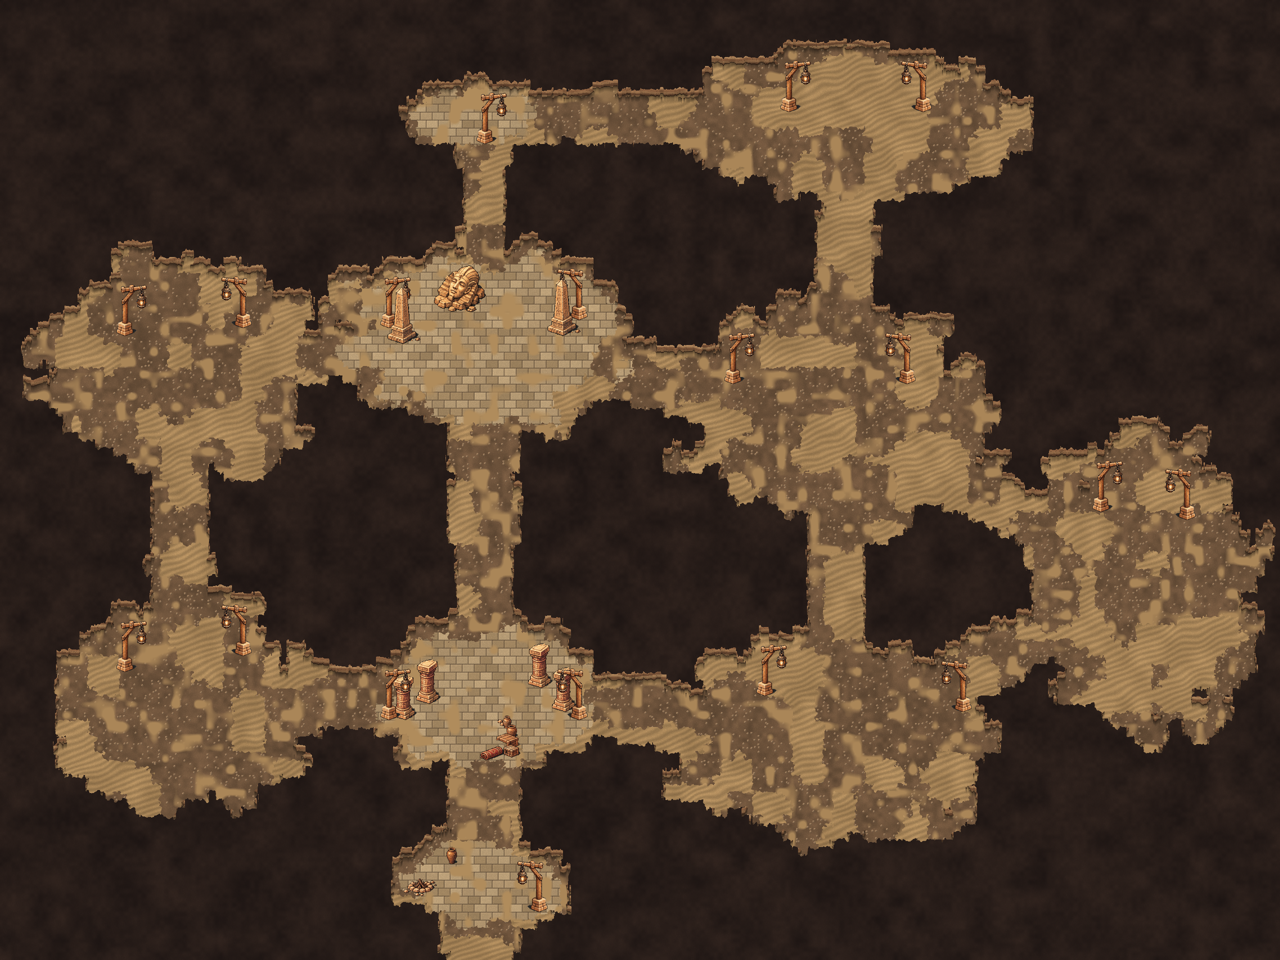
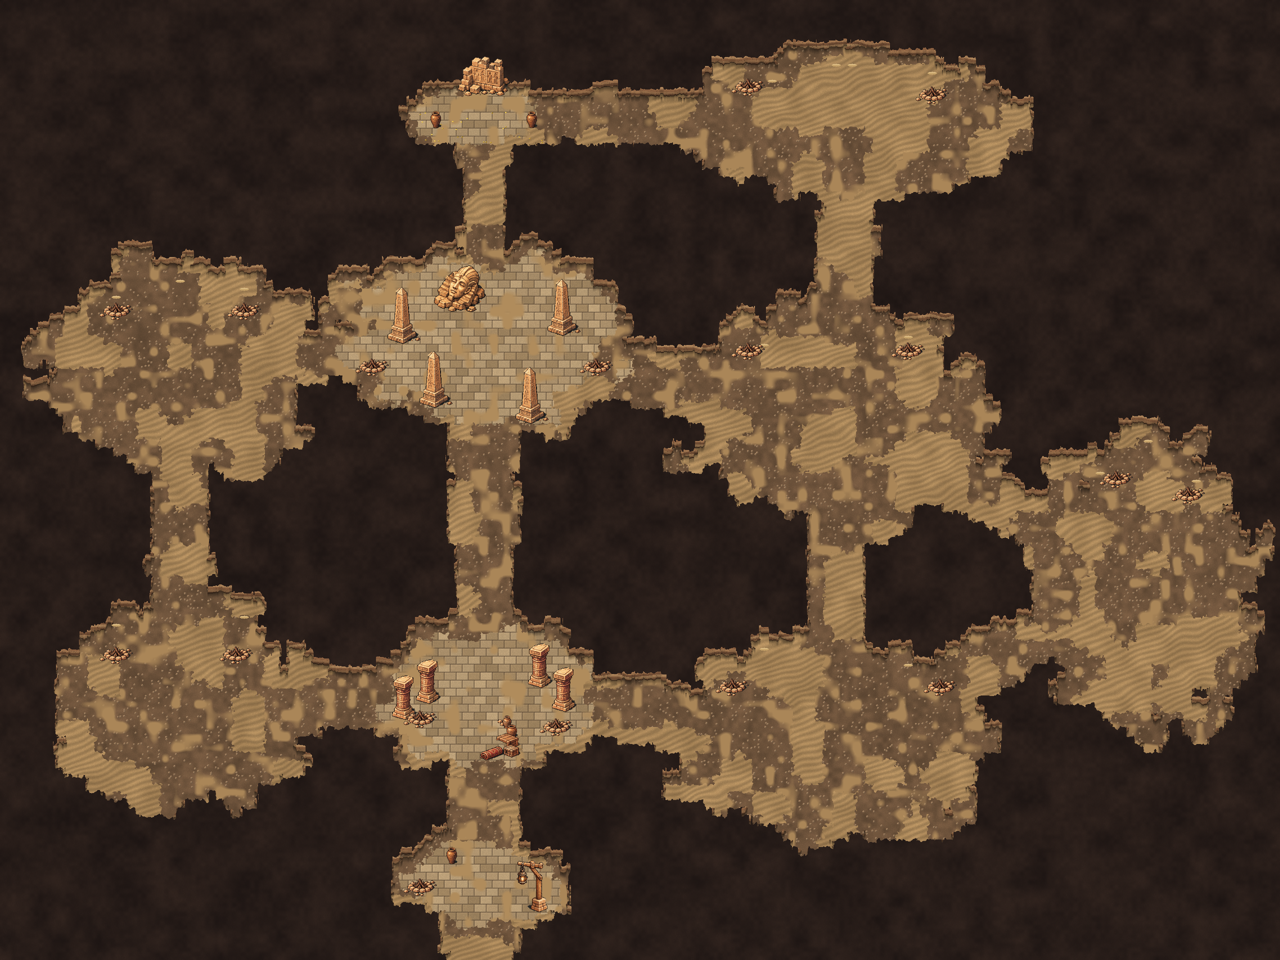
Templo: areia caindo, braseiros, guardiões, tesouro na Câmara Selada e raio de luz no ídolo (em revisão)
Claude-Session: https://claude.ai/code/session_01DxMENvJSpBJLKVoAtLL83c

diff --git a/mapas/Mapa_TemploSoterrado/templo_soterrado.js b/mapas/Mapa_TemploSoterrado/templo_soterrado.js
@@ -1,6 +1,6 @@
 /* ---------- Templo Soterrado (mapa 'ts') — caverna (lugar de dentro) do Acampamento dos Nômades (nd) ----------
    Um templo antigo engolido pelas dunas. O eixo do templo (lajes): Salão da Entrada, Galeria das Colunas, Salão do Ídolo e a
-   Câmara Selada. Dos dois lados, SEIS salões desmoronados e criptas cheias de areia, largos para caçar, ligados em anel.
+   Câmara Selada (o tesouro). Dos dois lados, SEIS salões desmoronados e criptas cheias de areia, largos para caçar, ligados em anel.
    Entrada e saída: a porta da entrada de caverna com o portal esculpido (cave_temple), no morro de areia da Planície Escaldante, no Acampamento leva para cá (chega em (60, 115)); a saída é a borda sul (colunas 56-63),
    que volta para a frente da porta. Lugar de dentro: tamanho livre (160 × 120).
    Chão: pintor por pixel de caverna (o mesmo nas duas cavernas do Acampamento), espelhado em ts_floor.gdshader.
@@ -108,18 +108,28 @@ function buriedTemple(){
  const HALL=k=>HALLS[k];
  const inHall=(k,f=1)=>(x,y)=>{const h=HALLS[k];return Math.hypot((x-h[0])/h[2],(y-h[1])/h[3])<f};
  const rim=k=>(x,y)=>{const h=HALLS[k],e=Math.hypot((x-h[0])/h[2],(y-h[1])/h[3]);return e>.62&&e<1.1};
- /* Salao da Entrada: acampamento encostado na parede */
+ const og=oc.getContext('2d');
+ /* Salao da Entrada: acampamento dos exploradores encostado na parede (os postes de lanterna são deles) */
  fire(52,109);aNear('goods',50,106,{});aNear('jar',53,105,{bw:0});torch(69,107,{flip:true});
- /* Galeria: colunas encostadas nas paredes, meio largo e livre */
+ /* Galeria: colunas encostadas nas paredes, meio largo e livre; braseiros de pedra nos cantos */
  for(const x of[46,74])for(const y of[81,91])aNear('column',x,y,{bw:0,fit:0,road:0,res:0});
- torch(45,86);torch(75,86,{flip:true});
- /* Salao do Idolo: estatua no fundo, obeliscos so na parede de tras */
+ fire(47,95);fire(73,95);
+ /* guardiões (provisório: obeliscos) dos dois lados da passagem para o Salão do Ídolo */
+ aNear('obelisk',53,53,{bw:1,road:0});aNear('obelisk',67,53,{bw:1,road:0});
+ /* Salao do Idolo: estatua no fundo com um raio de luz caindo do teto sobre ela; obeliscos na parede de tras; braseiros */
  aNear('statue_head',60,32,{fit:2,br:2,road:0});aNear('obelisk',44,36,{bw:1,road:0});aNear('obelisk',76,36,{bw:1,road:0});
- torch(48,40);torch(72,40,{flip:true});torch(60,12);
- /* 6 saloes de caca (5 a 10): vazios no meio; uma coluna quebrada colada na parede e duas tochas no alto de cada um */
+ fire(46,46);fire(74,46);fx.beam=[[60*T+8,35*T]];dark.push([60*T+8,33*T,110,.7]);
+ /* Camara Selada: o tesouro no fim do eixo — porta selada (provisório: muro com relevo) na parede do fundo, jarros e
+    mercadorias dos lados, moedas de ouro espalhadas no chão (no ov, sem colisão) */
+ {let y=14;while(y>2&&F[(y-1)*W+60])y--;aPut('ruin_wall',60,y+1,{bw:3,res:1});}aNear('jar',54,15,{bw:0,road:0});aNear('jar',66,15,{bw:0,road:0});aNear('goods',56,16,{road:0});
+ for(let k=0;k<26;k++){const x=(52+hq(k,191)*16)*T,y=(14+hq(k,192)*4)*T;og.fillStyle=hq(k,193)<.5?'#e8c040':'#b08820';og.fillRect(x|0,y|0,3,2);og.fillStyle='#fff0a0';og.fillRect(x|0,y|0,1,1)}
+ dark.push([60*T+8,14*T,80,.6]);
+ /* 6 saloes de caca (5 a 10): vazios no meio; braseiros de pedra no alto; areia escorrendo de fendas do teto com montinho */
  for(let k=4;k<=9;k++){const h=HALLS[k];
-  aScat(['column_broken'],1,600+k*10,(x,y)=>{const e=Math.hypot((x-h[0])/h[2],(y-h[1])/h[3]);return e>.85&&e<1.05},{bw:0,fit:1,road:0});
-  torch(Math.round(h[0]-h[2]*.55),Math.round(h[1]-h[3]*.6));torch(Math.round(h[0]+h[2]*.55),Math.round(h[1]-h[3]*.6),{flip:true})}
+  fire(Math.round(h[0]-h[2]*.55),Math.round(h[1]-h[3]*.6));fire(Math.round(h[0]+h[2]*.55),Math.round(h[1]-h[3]*.6));
+  for(let q=0;q<3;q++){const sx=Math.round(h[0]+(q-1)*h[2]*.45);let y=Math.round(h[1]);while(y>0&&F[(y-1)*W+sx])y--;
+   if(y<=0)continue;fx.sand.push([sx*T+8,y*T-4,hq(k,q)*6.28]);
+   const px=sx*T+8,py=y*T+34;for(let j=-3;j<=3;j++)for(let i=-9;i<=9;i++){if((i*i)/81+(j*j)/9>1)continue;og.fillStyle=j<0?'#dcbc84':'#c8a46a';og.fillRect(px+i,py+j,1,1)}}}
  /* poeira no ar e areia escorrendo do teto */
  for(let k=0;k<90;k++){const x=4+hq(k,61)*(W-8)|0,y=4+hq(k,62)*(H-8)|0;if(F[y*W+x])fx.dust.push([x*T+8,y*T+8,hq(k,63)*6.28])}
  for(let k=0;k<200&&fx.sand.length<16;k++){const x=4+hq(k,64)*(W-8)|0,y=4+hq(k,65)*(H-8)|0;if(F[y*W+x]&&!F[(y-1)*W+x])fx.sand.push([x*T+8,y*T-4,hq(k,66)*6.28])}

diff --git a/visualizador_ferramentas/gera_cavernas.py b/visualizador_ferramentas/gera_cavernas.py
@@ -102,25 +102,35 @@ function %(FN)s(){
 TEMPLO = dict(
  ID='ts', W=160, H=120, CH=115, FN='buriedTemple', NOME='Templo Soterrado', PORTA='da entrada de caverna com o portal esculpido (cave_temple), no morro de areia da Planície Escaldante,',
  DESC='''   Um templo antigo engolido pelas dunas. O eixo do templo (lajes): Salão da Entrada, Galeria das Colunas, Salão do Ídolo e a
-   Câmara Selada. Dos dois lados, SEIS salões desmoronados e criptas cheias de areia, largos para caçar, ligados em anel.''',
+   Câmara Selada (o tesouro). Dos dois lados, SEIS salões desmoronados e criptas cheias de areia, largos para caçar, ligados em anel.''',
  ZN="['Templo Soterrado','Salão da Entrada','Galeria das Colunas','Salão do Ídolo','Câmara Selada','Salão Desmoronado Oeste','Cripta Oeste','Salão Desmoronado Leste','Cripta Leste','Salão das Areias','Galeria Norte']",
  HALLS="[[60,110,11,6,1,1],[60,86,16,9,2,1],[60,42,20,12,3,1],[60,14,9,4,4,1],[22,88,17,13,5,0],[22,46,17,14,6,0],[104,92,21,13,7,0],[104,52,20,14,8,0],[143,72,14,20,9,0],[106,15,22,9,10,0]]",
  TUN="[[60,116,60,86,4],[60,86,60,42,4],[60,42,60,14,3],[60,86,22,88,3.6],[22,88,22,46,3.6],[22,46,60,42,3.4],[60,86,104,92,3.6],[104,92,104,52,3.6],[104,52,60,42,3.4],[104,92,143,72,3.6],[104,52,143,72,3.4],[104,52,106,15,3.4],[106,15,60,14,3]]",
  SD=90, R0='[150,104,70]', R1='[170,124,84]', R2='[128,88,60]', R3='[184,140,96]',
  SLR='', SLG='', SLB='',
  FR=92, FG=70, FB=50, VX='122*16+8', VY='89*16',
- OBJ=''' /* Salao da Entrada: acampamento encostado na parede */
+ OBJ=''' const og=oc.getContext('2d');
+ /* Salao da Entrada: acampamento dos exploradores encostado na parede (os postes de lanterna são deles) */
  fire(52,109);aNear('goods',50,106,{});aNear('jar',53,105,{bw:0});torch(69,107,{flip:true});
- /* Galeria: colunas encostadas nas paredes, meio largo e livre */
+ /* Galeria: colunas encostadas nas paredes, meio largo e livre; braseiros de pedra nos cantos */
  for(const x of[46,74])for(const y of[81,91])aNear('column',x,y,{bw:0,fit:0,road:0,res:0});
- torch(45,86);torch(75,86,{flip:true});
- /* Salao do Idolo: estatua no fundo, obeliscos so na parede de tras */
+ fire(47,95);fire(73,95);
+ /* guardiões (provisório: obeliscos) dos dois lados da passagem para o Salão do Ídolo */
+ aNear('obelisk',53,53,{bw:1,road:0});aNear('obelisk',67,53,{bw:1,road:0});
+ /* Salao do Idolo: estatua no fundo com um raio de luz caindo do teto sobre ela; obeliscos na parede de tras; braseiros */
  aNear('statue_head',60,32,{fit:2,br:2,road:0});aNear('obelisk',44,36,{bw:1,road:0});aNear('obelisk',76,36,{bw:1,road:0});
- torch(48,40);torch(72,40,{flip:true});torch(60,12);
- /* 6 saloes de caca (5 a 10): vazios no meio; uma coluna quebrada colada na parede e duas tochas no alto de cada um */
+ fire(46,46);fire(74,46);fx.beam=[[60*T+8,35*T]];dark.push([60*T+8,33*T,110,.7]);
+ /* Camara Selada: o tesouro no fim do eixo — porta selada (provisório: muro com relevo) na parede do fundo, jarros e
+    mercadorias dos lados, moedas de ouro espalhadas no chão (no ov, sem colisão) */
+ {let y=14;while(y>2&&F[(y-1)*W+60])y--;aPut('ruin_wall',60,y+1,{bw:3,res:1});}aNear('jar',54,15,{bw:0,road:0});aNear('jar',66,15,{bw:0,road:0});aNear('goods',56,16,{road:0});
+ for(let k=0;k<26;k++){const x=(52+hq(k,191)*16)*T,y=(14+hq(k,192)*4)*T;og.fillStyle=hq(k,193)<.5?'#e8c040':'#b08820';og.fillRect(x|0,y|0,3,2);og.fillStyle='#fff0a0';og.fillRect(x|0,y|0,1,1)}
+ dark.push([60*T+8,14*T,80,.6]);
+ /* 6 saloes de caca (5 a 10): vazios no meio; braseiros de pedra no alto; areia escorrendo de fendas do teto com montinho */
  for(let k=4;k<=9;k++){const h=HALLS[k];
-  aScat(['column_broken'],1,600+k*10,(x,y)=>{const e=Math.hypot((x-h[0])/h[2],(y-h[1])/h[3]);return e>.85&&e<1.05},{bw:0,fit:1,road:0});
-  torch(Math.round(h[0]-h[2]*.55),Math.round(h[1]-h[3]*.6));torch(Math.round(h[0]+h[2]*.55),Math.round(h[1]-h[3]*.6),{flip:true})}''')
+  fire(Math.round(h[0]-h[2]*.55),Math.round(h[1]-h[3]*.6));fire(Math.round(h[0]+h[2]*.55),Math.round(h[1]-h[3]*.6));
+  for(let q=0;q<3;q++){const sx=Math.round(h[0]+(q-1)*h[2]*.45);let y=Math.round(h[1]);while(y>0&&F[(y-1)*W+sx])y--;
+   if(y<=0)continue;fx.sand.push([sx*T+8,y*T-4,hq(k,q)*6.28]);
+   const px=sx*T+8,py=y*T+34;for(let j=-3;j<=3;j++)for(let i=-9;i<=9;i++){if((i*i)/81+(j*j)/9>1)continue;og.fillStyle=j<0?'#dcbc84':'#c8a46a';og.fillRect(px+i,py+j,1,1)}}}''')
 TEMPLO['SLR'] = 'id<.33?178:id<.66?166:190'
 TEMPLO['SLG'] = 'id<.33?150:id<.66?138:162'
 TEMPLO['SLB'] = 'id<.33?112:id<.66?100:122'

diff --git a/mapas/Mapa_TemploSoterrado/MAPA.md b/mapas/Mapa_TemploSoterrado/MAPA.md
@@ -45,6 +45,18 @@
 Salões largos; o meio de cada salão fica livre para caçar e os enfeites ficam só encostados nas paredes.
 A arte do interior vai ser trocada pela folha nova (`PROMPT_ASSETS_INTERIOR_CAVERNAS.md`) quando ela chegar.
 
+## O que tem no templo (sem atrapalhar a caça)
+
+- **Areia escorrendo do teto** nos 6 salões de caça: fios de areia caindo de fendas na parede de cima (`fx.sand`) e um
+  montinho de areia no chão embaixo (no `ov`, sem colisão).
+- **Braseiros de pedra** com fogo (no lugar dos postes de lanterna dos exploradores, que ficam só no Salão da Entrada):
+  dois nos cantos de cima de cada salão de caça, dois na Galeria e dois no Salão do Ídolo (`fx.fire` + `dark`).
+- **Guardiões** dos dois lados da passagem para o Salão do Ídolo (provisório: obeliscos; a estátua de guardião com lança
+  está no `PROMPT_ASSETS_INTERIOR_CAVERNAS.md`).
+- **O tesouro na Câmara Selada**: a porta selada com relevo na parede do fundo (provisório: `ruin_wall`), jarros e
+  mercadorias dos lados e moedas de ouro espalhadas no chão (no `ov`, sem colisão).
+- **Raio de luz** caindo do teto sobre o ídolo, com poeira brilhando (`fx.beam`, desenhado na camada de luz).
+
 ## Luzes (`dark`)
 
 A caverna é escura: 1 fogueira (raio 140) e as lanternas (raio 120) iluminam os salões e os túneis.
